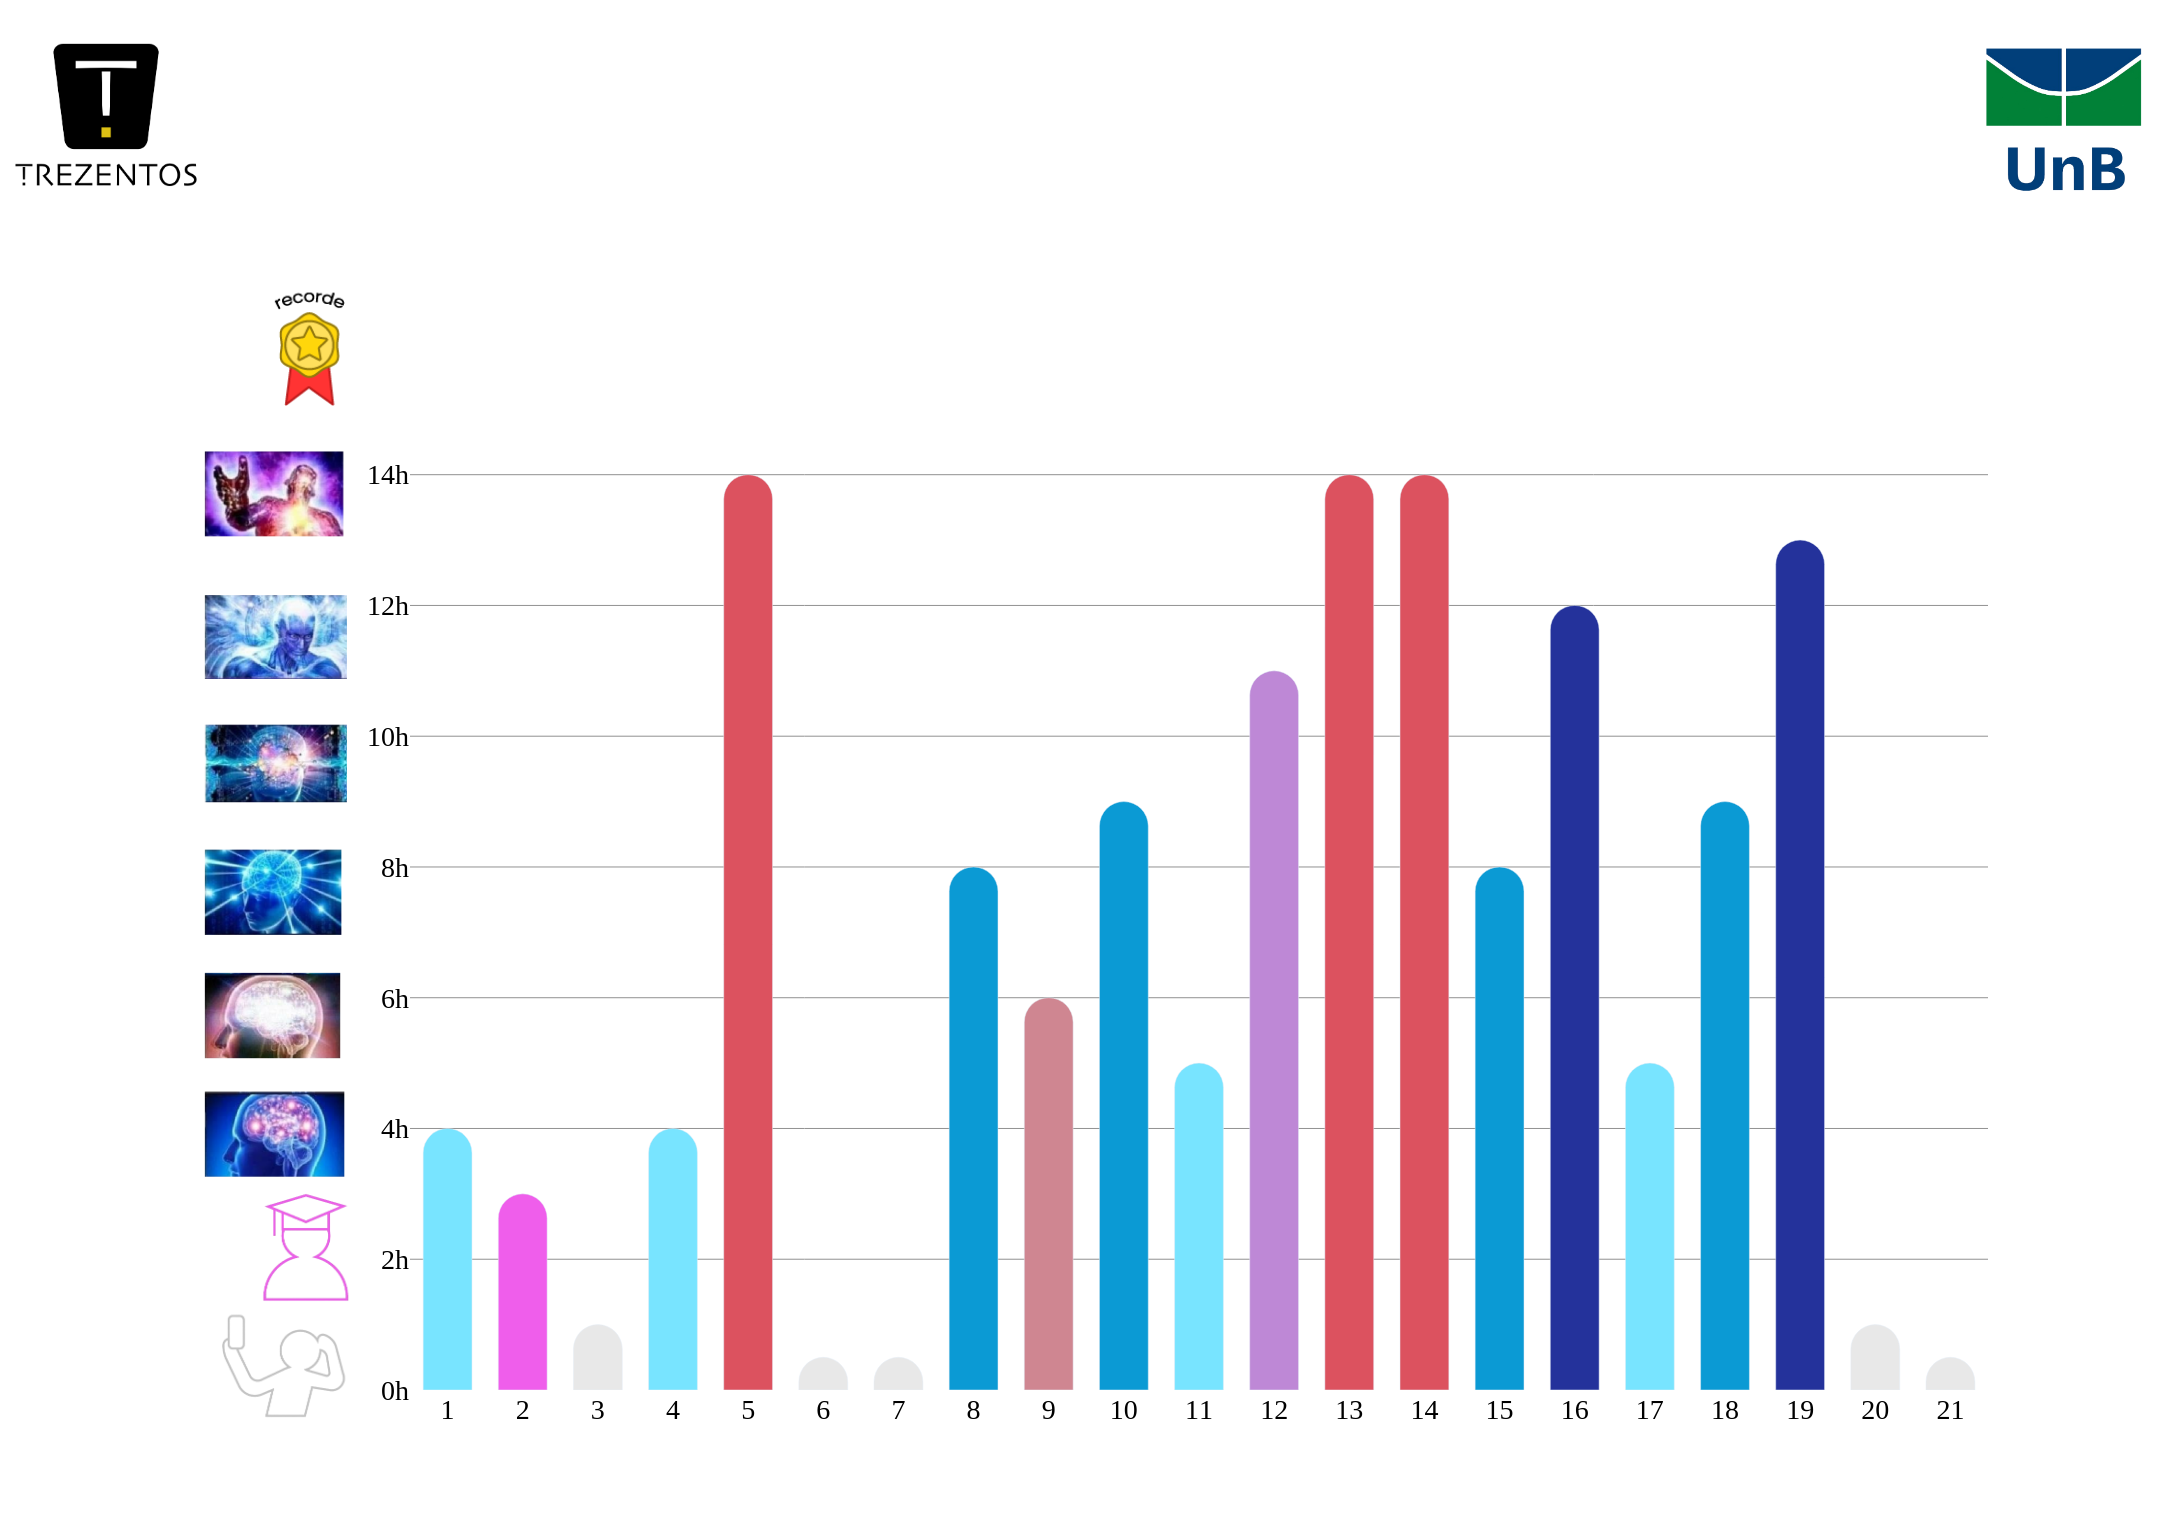
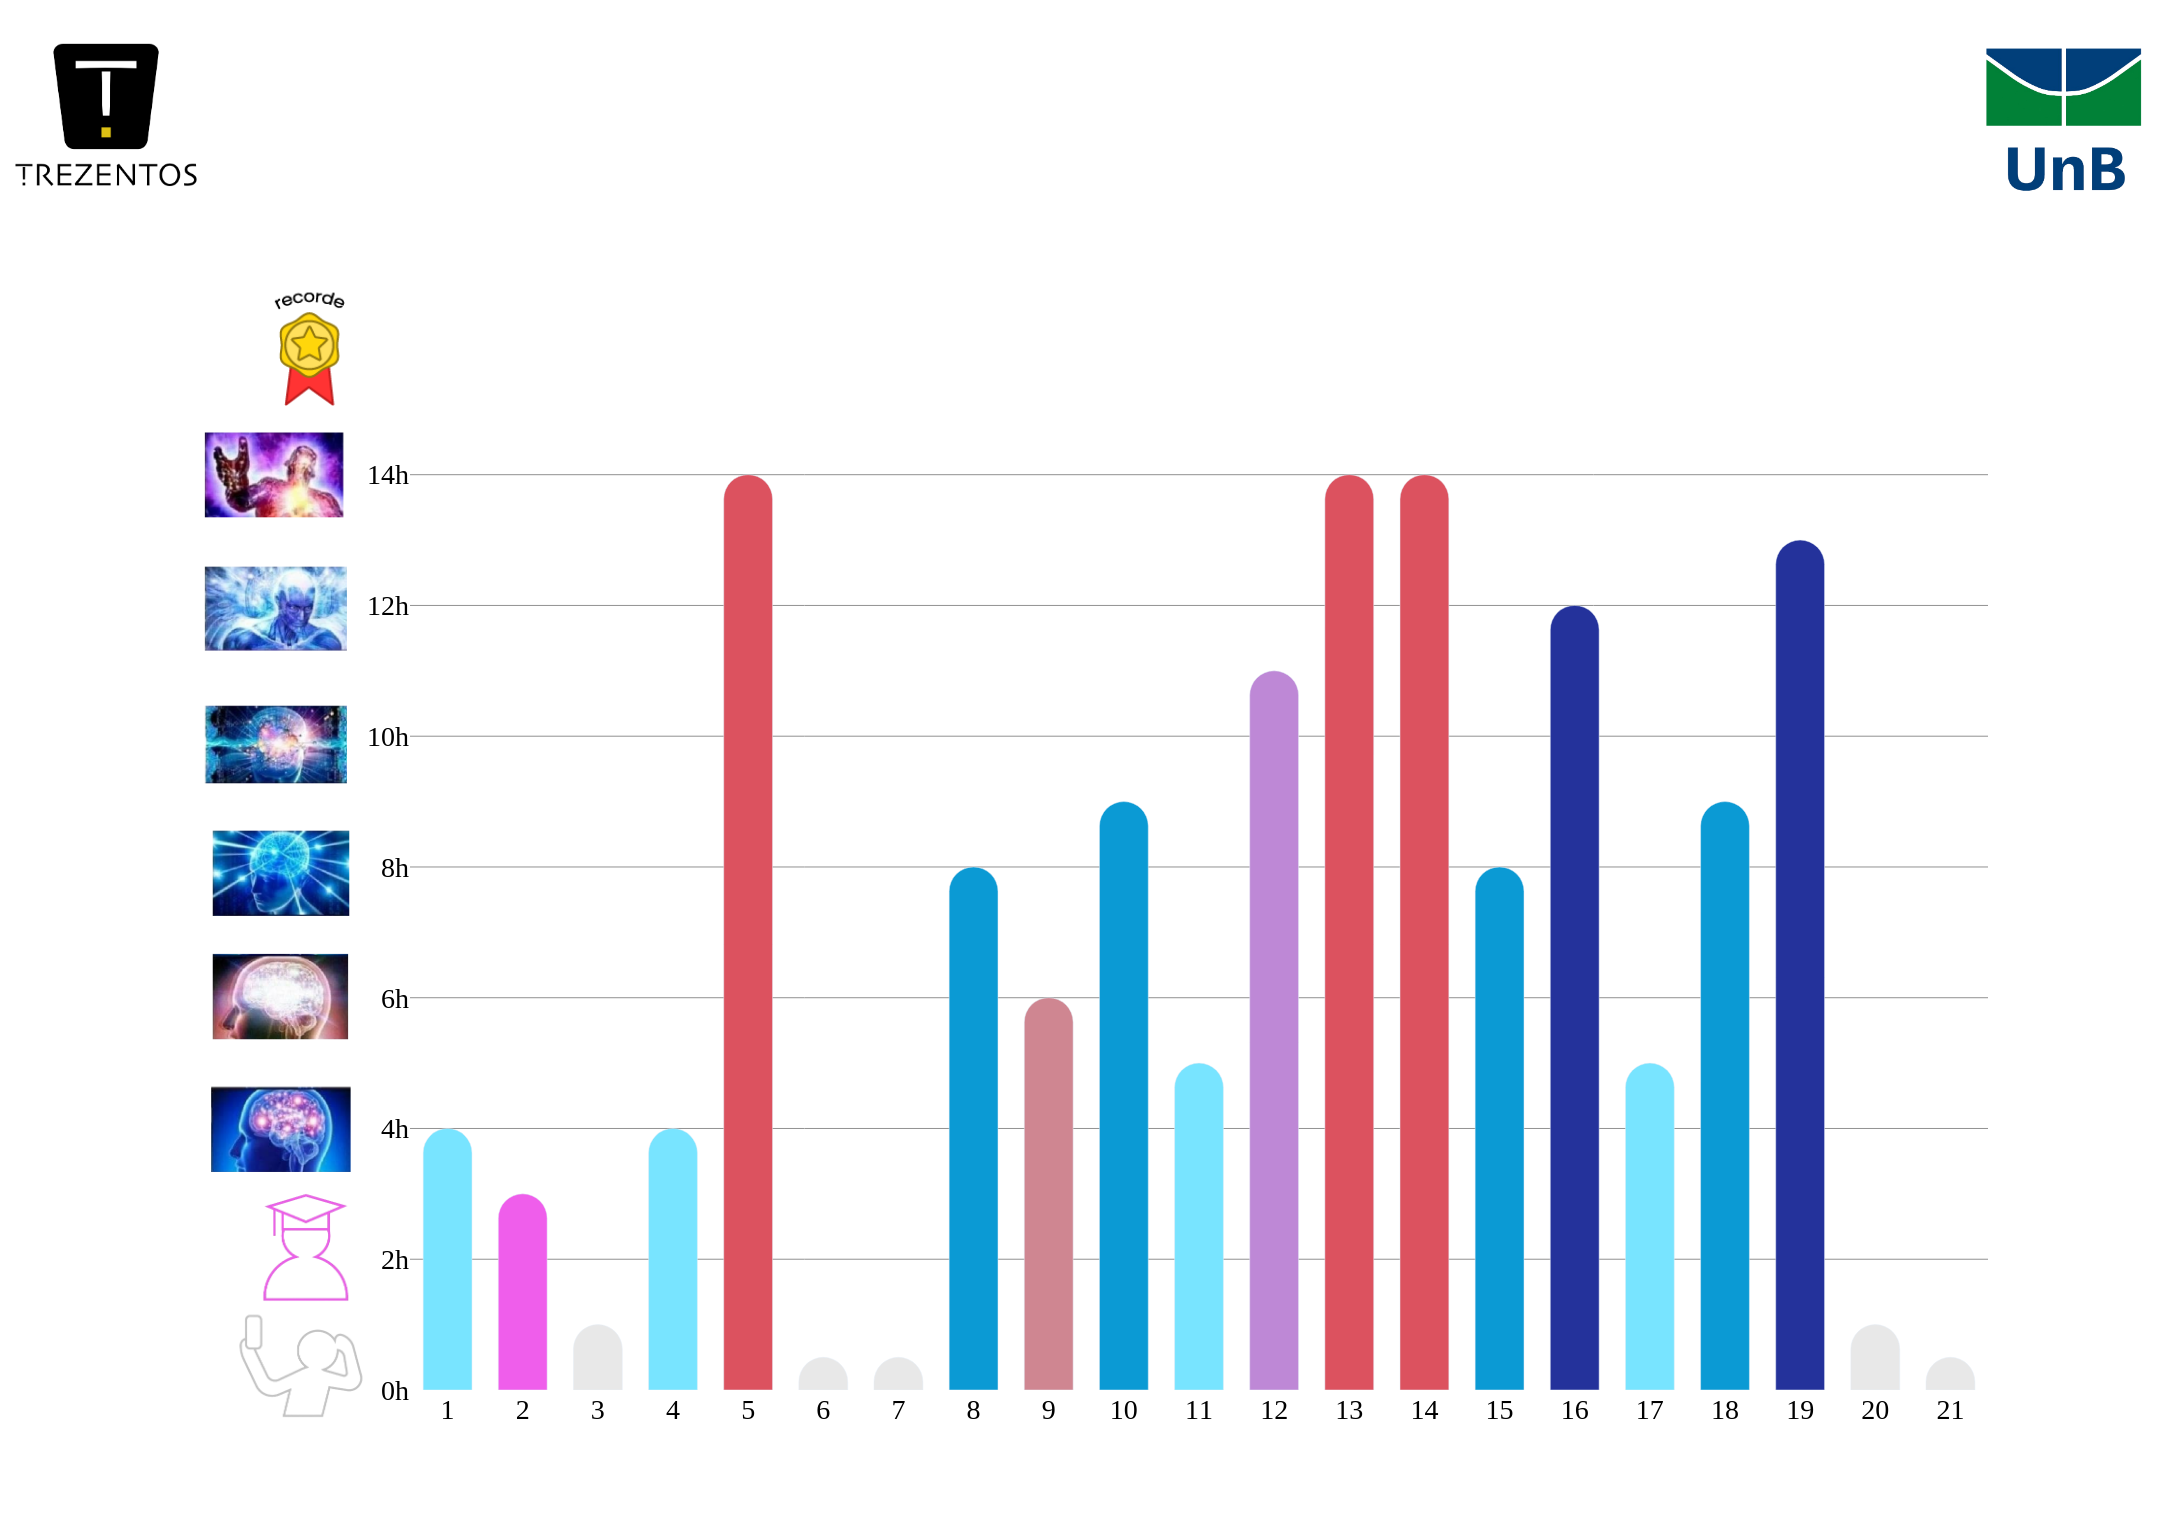
adicionando dados

Changed region(s): [[0.0925, 0.2776, 0.185, 0.771], [0.0925, 0.8635, 0.1542, 0.9252]]

diff --git a/gerador_mente_superior/imagem_final_gerador.py b/gerador_mente_superior/imagem_final_gerador.py
@@ -34,30 +34,37 @@ draw = ImageDraw.Draw(base)
 font_path = os.path.join(current_directory, "Poppins-Regular.ttf")
 font_path_skema = os.path.join(current_directory, "SkemaProDisplay-Medium.ttf")
 
-font_size = 24
+font_size = 30
 font1 = ImageFont.truetype(font_path, font_size)
 
-font_size = 40
+font_size = 55
 font2 = ImageFont.truetype(font_path, font_size)
 
-font_size = 30
+font_size = 35
 font3 = ImageFont.truetype(font_path, font_size)
 
-font_size = 23
+font_size = 26
 font4 = ImageFont.truetype(font_path_skema, font_size)
 
+font_size = 26
+font5 = ImageFont.truetype(font_path, font_size)
+
 a = 48
+a1 = -10
 text1 = "Média da"
-pos1 = (70, 1350+a)
+pos1 = (a1+70, 1350+a)
 
 text2 = "Turma"
-pos2 = (85, 1375+a)
+pos2 = (a1+85, 1375+a)
+
+b = -160
+c = -20
 
 text3 = "Cálculo 1 com Professor Ricardo Ramos Fragelli"
-pos3 = (300+350, 75)
+pos3 = (b+300+350, 75+c)
 
-text4 = "1 semestre de 2024 - Segunda prova"
-pos4 = (350+400, 125)
+text4 = "1 semestre de 2024 - Primeira prova"
+pos4 = (b+350+420, 125+c)
 
 text5 = "Dia  " + str(gerando_grafico_base.dia_atual)
 pos5 = (120, 220)
@@ -77,8 +84,8 @@ draw.text( pos1 , text1, fill=text_color, font=font1)
 draw.text( pos2 , text2, fill=text_color, font=font1)
 draw.text( pos3 , text3, fill=text_color, font=font2)
 draw.text( pos4 , text4, fill=text_color, font=font2)
-draw.text( pos5 , text5, fill=text_color, font=font1)
-draw.text( pos6 , text6, fill=text_color, font=font1)
+draw.text( pos5 , text5, fill=text_color, font=font5)
+draw.text( pos6 , text6, fill=text_color, font=font5)
 draw.text( pos7 , text7, fill=text_color, font=font3)
 draw.text( pos8 , text8, fill=text_color, font=font4)
 
@@ -87,7 +94,7 @@ media = media.crop(media.getbbox())
 media_invertida = ImageOps.flip(media)
 ri.PNG_ResizeKeepTransparency(path_imagem_media,path_redimensionada,new_width=400,new_height=1040, resample=Image.LANCZOS)
 # Salva a imagem redimensionada
-media = Image.open(path_redimensionada)
+media = Image.open(path_redimensionada) #teste
 
 coordx = -75
 coordy = gerando_grafico_base.resol*342

diff --git a/gerador_bob_esponja/imagem_final_gerador.py b/gerador_bob_esponja/imagem_final_gerador.py
@@ -34,30 +34,37 @@ draw = ImageDraw.Draw(base)
 font_path = os.path.join(current_directory, "Poppins-Regular.ttf")
 font_path_skema = os.path.join(current_directory, "SkemaProDisplay-Medium.ttf")
 
-font_size = 24
+font_size = 30
 font1 = ImageFont.truetype(font_path, font_size)
 
-font_size = 40
+font_size = 55
 font2 = ImageFont.truetype(font_path, font_size)
 
-font_size = 30
+font_size = 35
 font3 = ImageFont.truetype(font_path, font_size)
 
-font_size = 23
+font_size = 26
 font4 = ImageFont.truetype(font_path_skema, font_size)
 
+font_size = 26
+font5 = ImageFont.truetype(font_path, font_size)
+
 a = 48
+a1 = -10
 text1 = "Média da"
-pos1 = (70, 1350+a)
+pos1 = (a1+70, 1350+a)
 
 text2 = "Turma"
-pos2 = (85, 1375+a)
+pos2 = (a1+85, 1375+a)
+
+b = -160
+c = -20
 
 text3 = "Cálculo 1 com Professor Ricardo Ramos Fragelli"
-pos3 = (300+350, 75)
+pos3 = (b+300+350, 75+c)
 
 text4 = "1 semestre de 2024 - Segunda prova"
-pos4 = (350+400, 125)
+pos4 = (b+350+420, 125+c)
 
 text5 = "Dia  " + str(gerando_grafico_base.dia_atual)
 pos5 = (120, 220)
@@ -77,8 +84,8 @@ draw.text( pos1 , text1, fill=text_color, font=font1)
 draw.text( pos2 , text2, fill=text_color, font=font1)
 draw.text( pos3 , text3, fill=text_color, font=font2)
 draw.text( pos4 , text4, fill=text_color, font=font2)
-draw.text( pos5 , text5, fill=text_color, font=font1)
-draw.text( pos6 , text6, fill=text_color, font=font1)
+draw.text( pos5 , text5, fill=text_color, font=font5)
+draw.text( pos6 , text6, fill=text_color, font=font5)
 draw.text( pos7 , text7, fill=text_color, font=font3)
 draw.text( pos8 , text8, fill=text_color, font=font4)
 

diff --git a/gerador_mente_superior/gerando_grafico_base.py b/gerador_mente_superior/gerando_grafico_base.py
@@ -104,12 +104,12 @@ path_imagem_logounb = os.path.join(current_directory, 'demais_assets', 'logo_unb
 path_imagem_logotrezentos = os.path.join(current_directory, 'demais_assets', 'trezentos.png')
 
 imagens = [
-    (path_imagem_4hour, -0.10*linha_grade, 0.225),
-    (path_imagem_6hour, -0.10*linha_grade, 0.35),
-    (path_imagem_8hour, -0.10*linha_grade, 0.48),
-    (path_imagem_10hour, -0.10*linha_grade, 0.62),
-    (path_imagem_12hour, -0.10*linha_grade, 0.75),
-    (path_imagem_14hour, -0.10*linha_grade, 0.9),
+    (path_imagem_4hour, -0.10*linha_grade+0.004, 0.23),
+    (path_imagem_6hour, -0.10*linha_grade+0.005, 0.37),
+    (path_imagem_8hour, -0.10*linha_grade+0.005, 0.5),
+    (path_imagem_10hour, -0.10*linha_grade, 0.64),
+    (path_imagem_12hour, -0.10*linha_grade, 0.78),
+    (path_imagem_14hour, -0.10*linha_grade, 0.92),
 ]
 
 for imagem_url, x, y in imagens:
@@ -129,7 +129,7 @@ for imagem_url, x, y in imagens:
 
 a=0.045
 imagens = [
-    (path_imagem_0hour, -0.12*linha_grade1, -0.05),
+    (path_imagem_0hour, -0.11*linha_grade1, -0.05),
     (path_imagem_2hour, -0.11*linha_grade1, 0.08),
     (path_medalha, -0.085*linha_grade1, 1.025),
     (path_imagem_logotrezentos, -0.25, 1.225+a),
